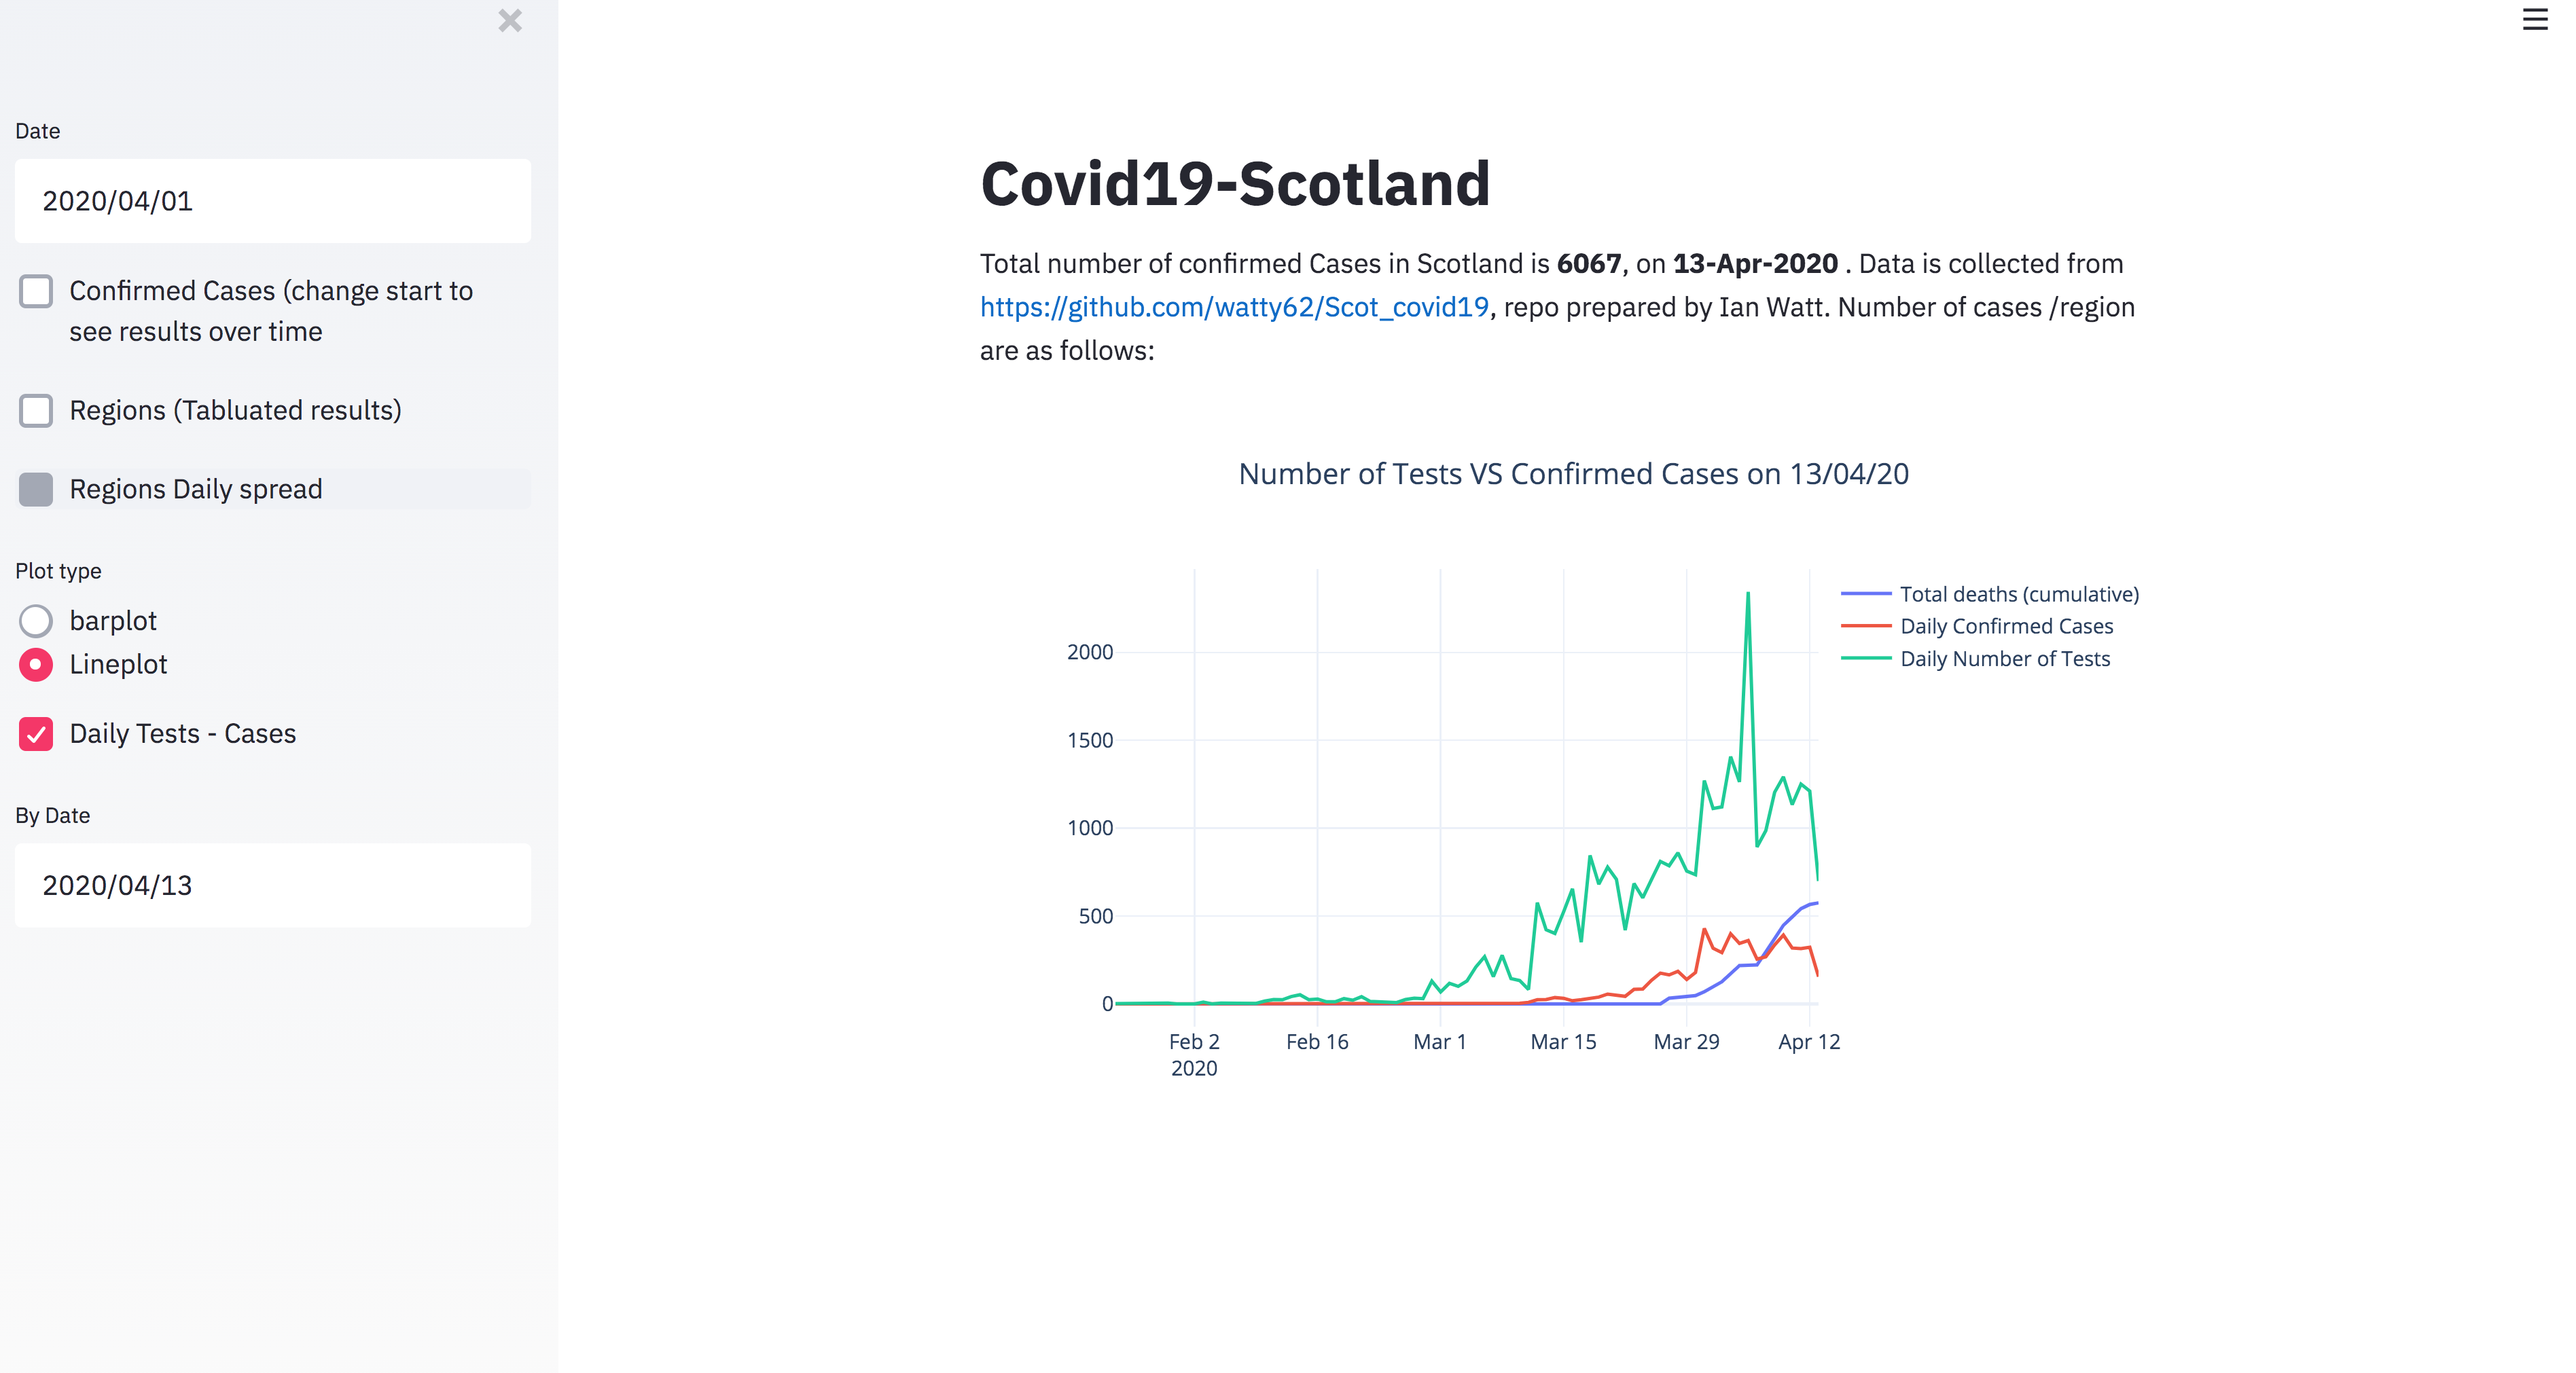
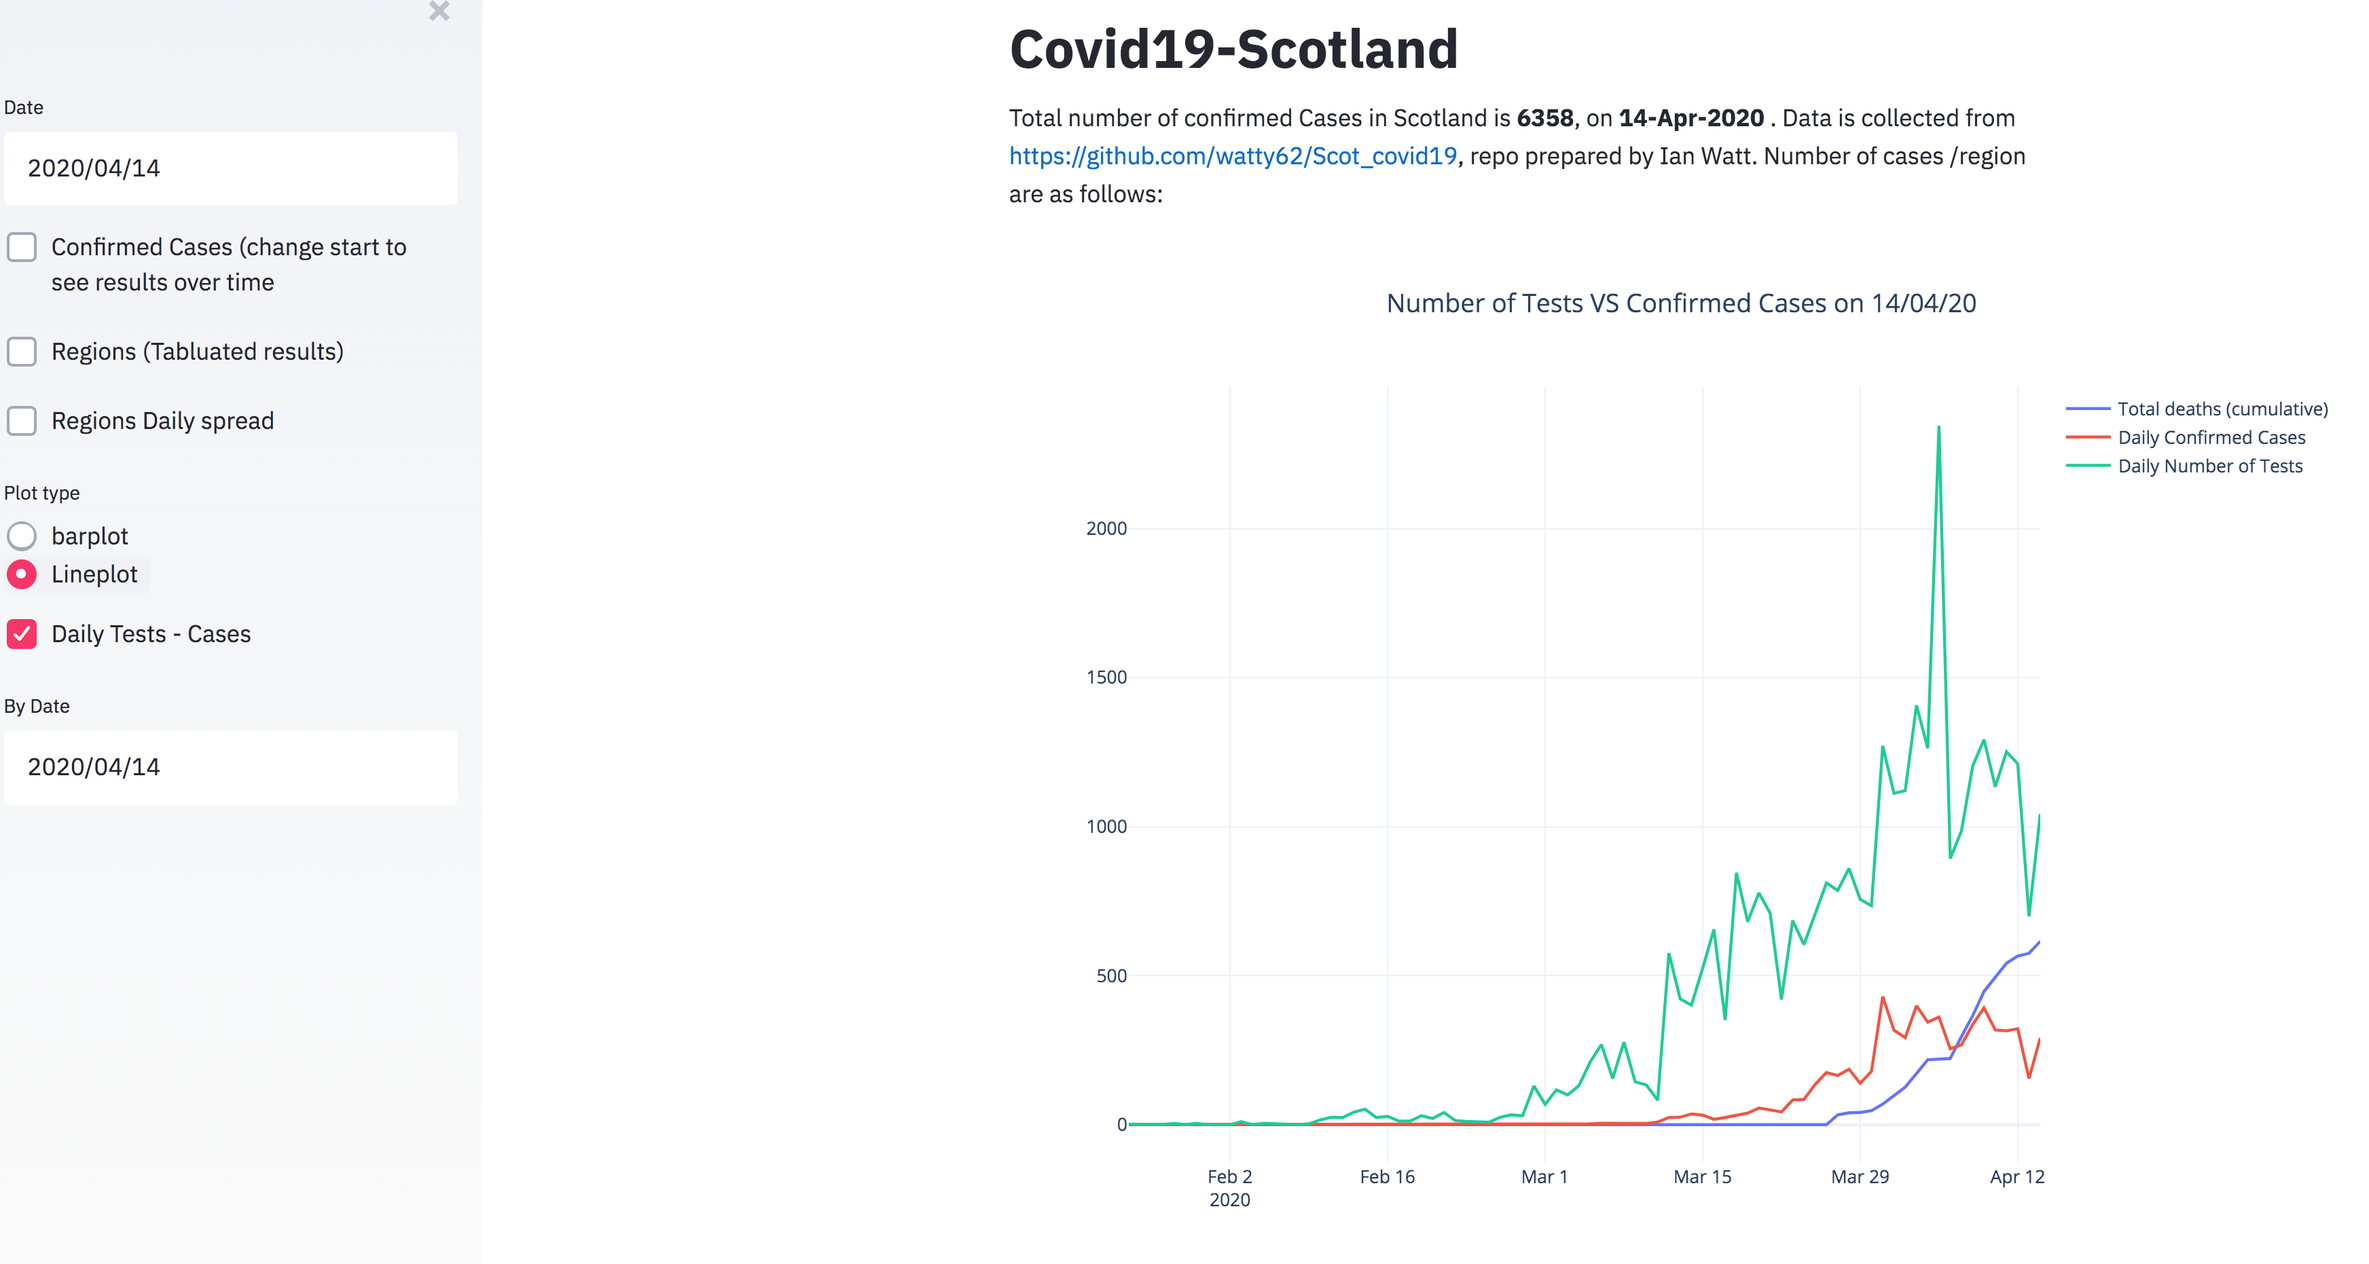
update numbers

diff --git a/covid19_Scotland/Scotland_Covi19.py b/covid19_Scotland/Scotland_Covi19.py
@@ -143,7 +143,7 @@ def plot_totals_today(byDate='01-04-2020',bar = True,line=False):
         #fig.update_yaxes(type="log")
         t_text = 'In Total ' + str(temp['Confirmed'].max()) + ' Confirmed Cases in (Scotland) on '+str(byDate.strftime("%d/%m/%y"))
         fig.for_each_annotation(lambda a: a.update(text=a.text.split("=")[-1]))
-        fig.update_layout(title_text=t_text, title_x=0.5)
+        fig.update_layout(title_text=t_text, title_x=0.5,width=800,height=600)
 
     return (fig)
 
@@ -186,7 +186,7 @@ def plot_regions_u(regions='Grampian',facet_cols=2,bar=False,logs=False,startDat
     title = 'Daily spread across top ' + str(len(regions)) + ' regions ' + 'between '+ str(start_date.strftime("%d/%m/%y")) + ' and '+str(endDate.strftime("%d/%m/%y"))
     fig.for_each_annotation(lambda a: a.update(text=a.text.split("=")[-1]))
     fig.update_xaxes(tickangle=90)
-    fig.update_layout(xaxis_title="Date",yaxis_title="Daily Count")
+    fig.update_layout(xaxis_title="Date",yaxis_title="Daily Count",width=900,height=700)
     fig.update_layout(title_text=title, title_x=0.5)
     return(fig)
 
@@ -252,7 +252,7 @@ def plot_confirmed_tests(date =byDate,bar=True):
         ))
 
     #fig.update_layout(barmode='group')
-    fig.update_layout(template='plotly_white')
+    fig.update_layout(template='plotly_white',width=900,height=700)
     fig.update_layout(title_text="Number of Tests VS Confirmed Cases on "+str(date.strftime("%d/%m/%y")), title_x=0.5)
     return fig
 
